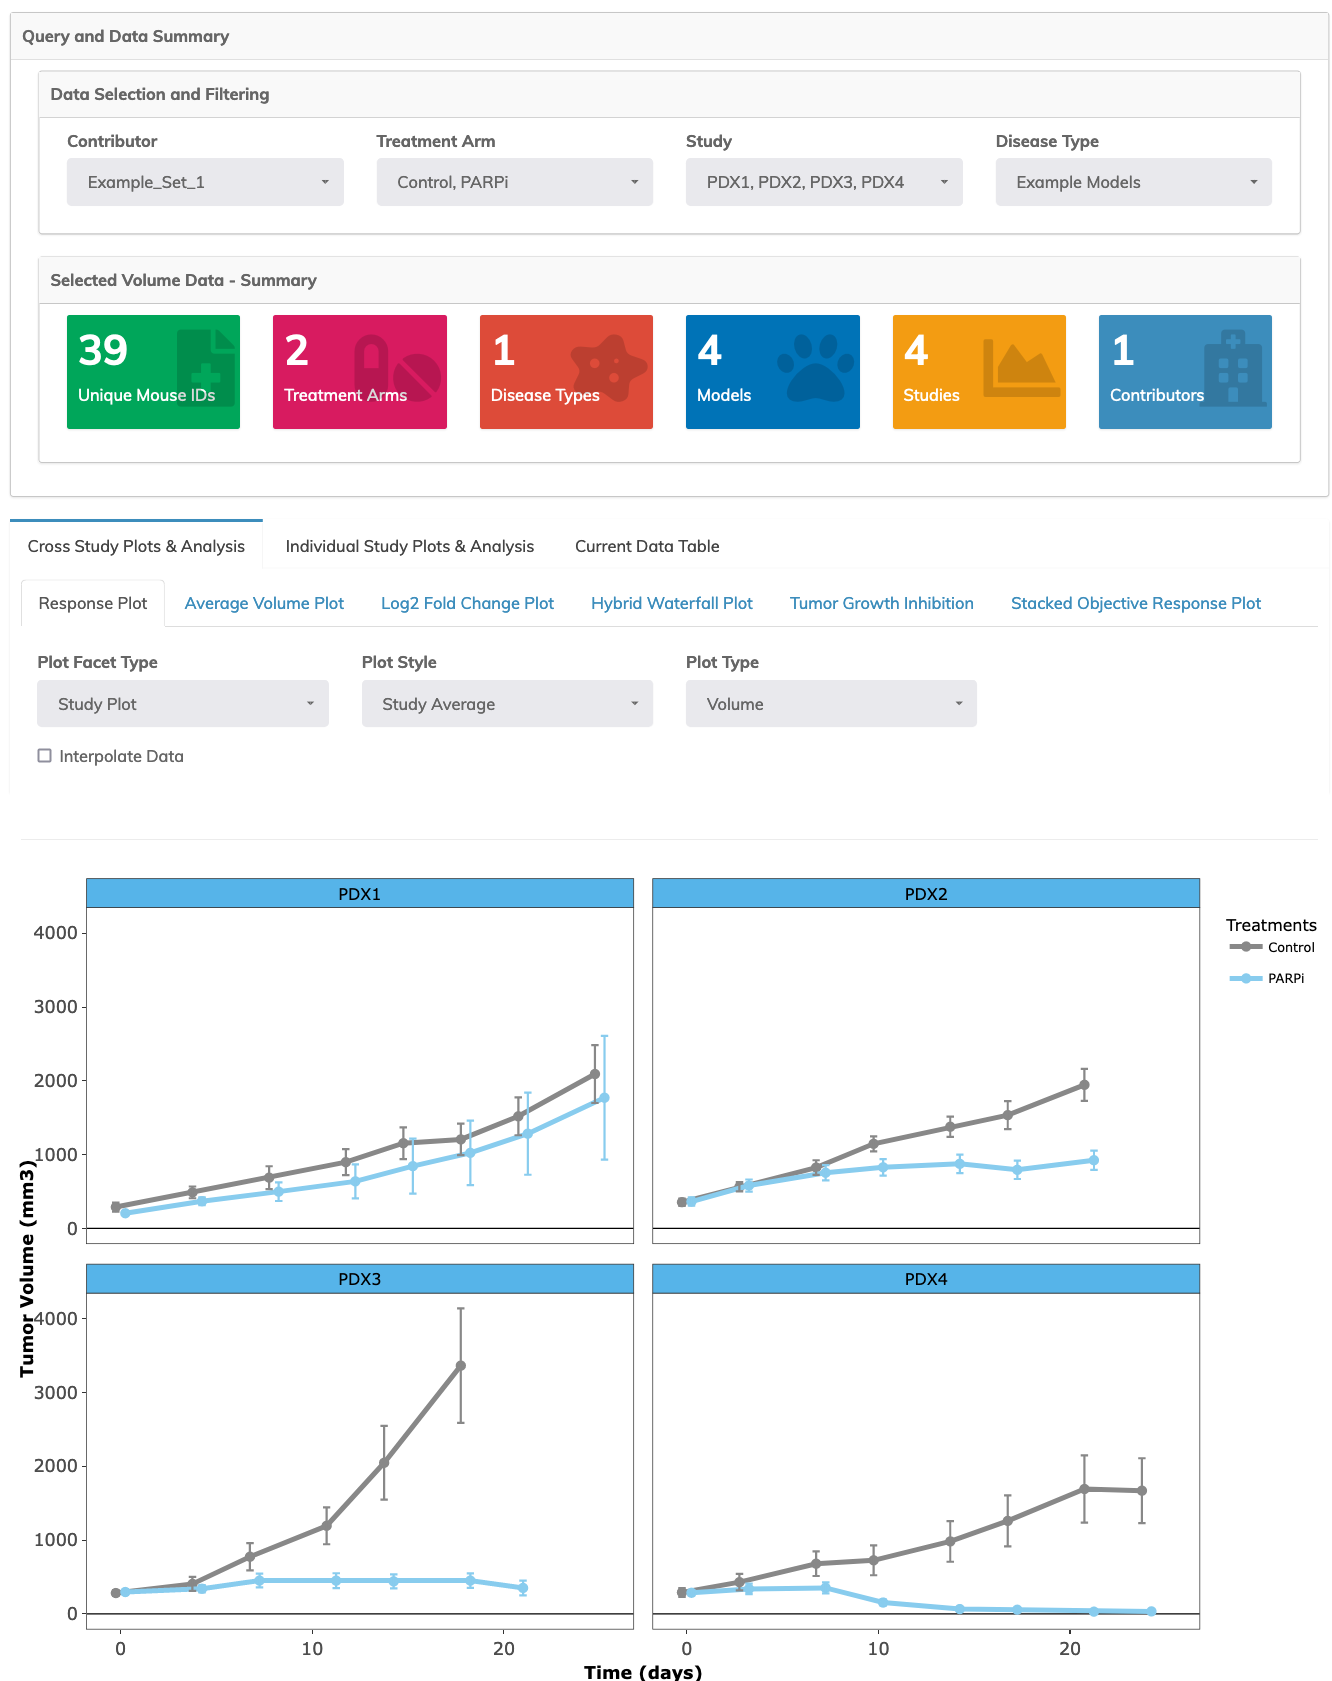
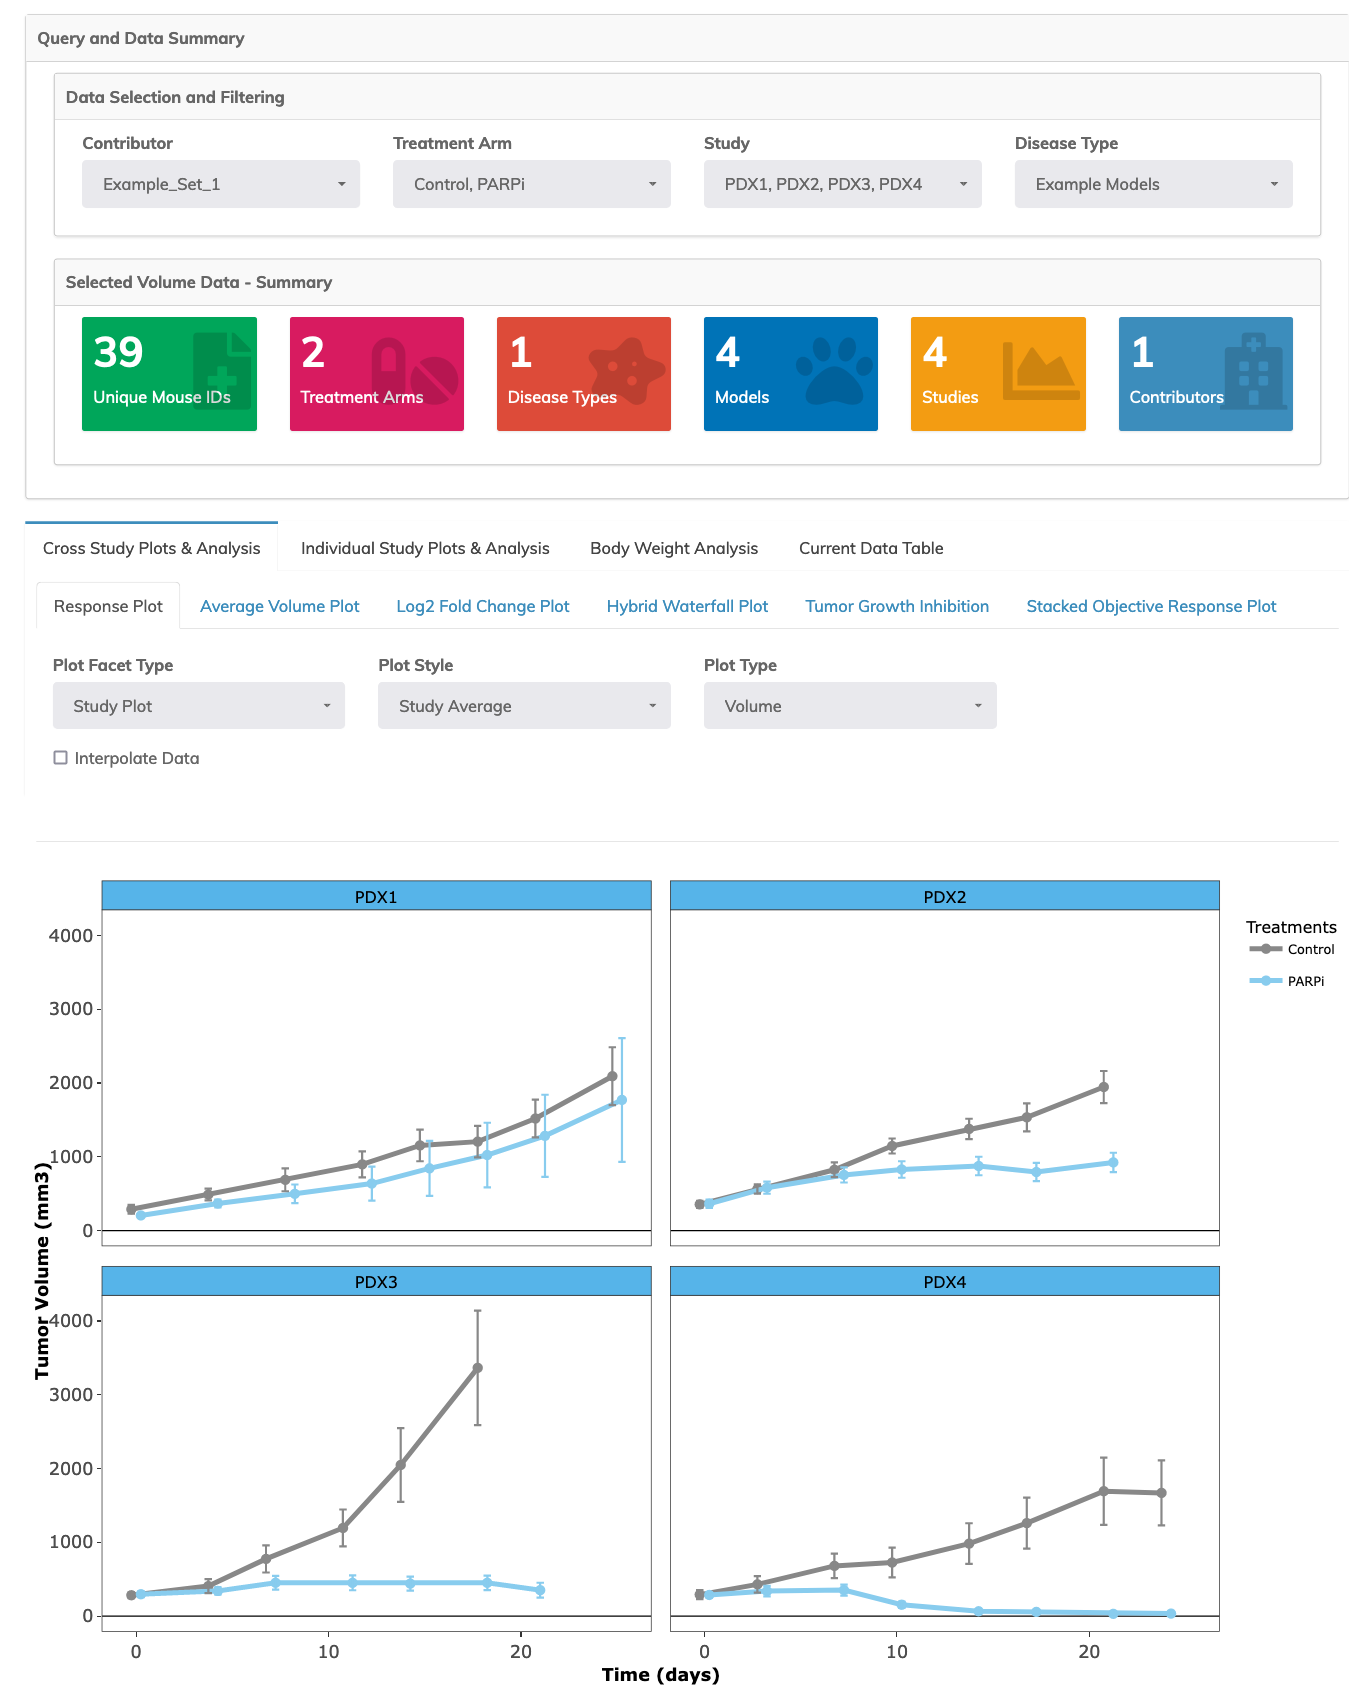
incremental help doc update

diff --git a/documentation/help.md b/documentation/help.md
@@ -60,6 +60,11 @@ The following columns with the **exact names** and **data types** are expected i
     
         A descriptor of the tumor type (e.g., Invasive breast carcinoma, Unknown, NA). 
         NOTE: This is a free text field, and is only used in the data filter query.
+    
+    9. 'Body_Weight': 
+
+        The measured body weights of the animals (e.g., 14.2, 14, 15.1). 
+        NOTE: This field is optional, if not provided the 'Body Weight Analysis' tab will be disabled.  
 
 
 ### Upload Validation Message: 
@@ -149,7 +154,7 @@ Below the data query and summary are three sub-tabs that allow users to access d
 
 ### 1. Cross Study Plots and Analysis
 
-There are six tabs that provide access to different visualizations and analysis metrics for cross study comparisons. 
+The user selects from six tabs that provide access to different visualizations and analysis metrics for cross study comparisons. 
 
 **NOTE:** Data filtering via 'Data Selection and Filtering' dropdowns can be used to select or deselect studies as needed.
 
@@ -263,7 +268,7 @@ This plot shows cross study mean log2 fold change [log2(Volume<sub>t</sub> / Vol
 <img src="images/15.tv_hybridWaterfall_plot.png" alt="" width="400"/>
 </p> 
 
-This plot shows cross study hybrid waterfall plot. Where model by treatment arm shows progression, T / C ratio +/- SE  is displayed in the plot. T/C is defined within study, tumor, and treatment arm roughly as:  
+This plot shows cross study hybrid waterfall plot. Where model by treatment arm shows progression, T / C ratio +/- SE  is displayed in the plot. T/C is defined within study, tumor, and treatment arm defined roughly as:  
 
 <p align="center">
 <img src="images/a.eq3.gif" alt="" width="175"/>
@@ -271,7 +276,8 @@ This plot shows cross study hybrid waterfall plot. Where model by treatment arm 
 
 For the specific formulation, see the 'Tumor Growth Inhibition' section that follows. 
 
-Where model by treatment arm shows regression, percent change in tumor volume (as defined above) +/- SE is shown. The calculation of these metrics is taken at the user defined time point (default "Waterfall Calc. Day" is 21). Data underlying this plot can be interpolated with the checkbox.  
+Where model by treatment arm shows regression, percent change in tumor volume (as defined above) +/- SE is shown. The calculation of these metrics is taken at the user defined time point (default "Waterfall Calc. Day" is 21). Data underlying this plot can be interpolated with the checkbox.
+  
 
 ---
 
@@ -281,9 +287,10 @@ Where model by treatment arm shows regression, percent change in tumor volume (a
 <img src="images/16.tv_TGI_plot.png" alt="" width="400"/>
 </p> 
 
-This plot and table shows cross study tumor growth inhibition defined as the T/C ratio. 
+This plot and table shows cross study tumor growth inhibition defined as the T/C ratio at the user defined time point (default "TGI Calc. Day" is 21). 
 
-To measure antitumor activity of the treatment group compared to the control group, we considered the tumor growth treatment-to-control ratio (gamma<sub>t</sub>) estimated by one way ANOVA focused on time *t* as described in Supplemental Materials 1 in (Evrard et al. 2020). 
+To measure antitumor activity of the treatment group compared to the control group, we considered the tumor growth treatment-to-control ratio (gamma<sub>t</sub>) estimated by one way ANOVA focused on time *t* as described in Supplemental Materials 1 in (Evrard et al. 2020). Data underlying this plot can be interpolated with the checkbox.  
+
  
 Briefly, after log transforming the change in tumor volume (as defined above), a linear model is fit:
 
@@ -299,9 +306,11 @@ If we define TGI as the ratio of mean tumor to mean control as in the equation s
 <img src="images/a.eq5.gif" alt="" width="175"/>
 </p>
 
-Where TGI < 1 indicates the degree of growth inhibition of the treatment relative to control. To test for the significance of anti-tumor activity of the treatment group at time *t*, we test the null hypothesis of no treatment effect by comparing
+Where TGI < 1 indicates the degree of growth inhibition of the treatment relative to control. To test for the significance of anti-tumor activity of the treatment group at time *t*, we test the null hypothesis of no treatment effect by comparing:
 
-H_0:β=0 (γ=1) vs. H_1: β<0 (γ<1).
+<p align="center">
+<img src="images/a.eq6.gif" alt="" width="175"/>
+</p>
 
     Evrard YA, Srivastava A, Randjelovic J, Doroshow JH, Dean DA 2nd, Morris JS, Chuang JH; NCI PDXNet Consortium. Systematic Establishment of Robustness and Standards in Patient-Derived Xenograft Experiments and Analysis. Cancer Res. 2020 Jun 1;80(11):2286-2297. doi: 10.1158/0008-5472.CAN-19-3101. Epub 2020 Mar 9. PMID: 32152150; PMCID: PMC7272270.
 
@@ -310,6 +319,20 @@ H_0:β=0 (γ=1) vs. H_1: β<0 (γ<1).
 ---
 
 #### 1f. Stacked Objective Response Plot
+
+<p align="center">
+<img src="images/17.tv_ORC_stacked_plot.png" alt="" width="400"/>
+</p> 
+
+
+This plot summarizes individual animal objective response criteria at the user defined time point (default "RECIST Calc. Day" is 21). Data underlying this plot can be interpolated with the checkbox.  
+
+The classification used mimics RECIST criteria commonly used in clinical trials for solid tumors to classify each patient as complete response (CR), partial response (PR), stable disease (SD), or progressive disease (PD). At a user defined time *t*, each animal was classified into one of these four categories based on their percent tumor volume change from baseline based on the following cut points: 
+
+1. CR : ∆TV<sub>t</sub> <= -95%
+2. PR : -95% < ∆TV<sub>t</sub> <= -30%
+3. SD : -30% < ∆TV<sub>t</sub> <= 20%
+4. PD : All other cases
 
 ---
 
@@ -323,9 +346,49 @@ H_0:β=0 (γ=1) vs. H_1: β<0 (γ<1).
 
 ### 2. Individual Study Plots & Analysis
 
-There is a study selection dropdown, and four tabs that provide access to different visualizations and analysis metrics for analysis of the selected individual study. 
+Users select the 'Study' of interest from the study selection dropdown. Four sub-tabs provide access to different visualizations and analysis metrics for analysis of the selected study. 
 
 <p align="center">
-<img src="images/999.tv_individual_study_options.png" alt="" width="700"/>
+<img src="images/18.tv_individual_study_options.png" alt="" width="700"/>
 </p>
+
+#### 2a. Objective Response (RECIST)
+
+<p align="center">
+<img src="images/19.tv_RECIST_plot_table.png" alt="" width="400"/>
+</p> 
+
+This plot and table summarize cohort level objective response criteria at the user defined time point (default "RECIST Calc. Day" is 21). Data underlying this plot can be interpolated with the checkbox.  
+
+The classification used mimics RECIST criteria commonly used in clinical trials for solid tumors to classify each patient as complete response (CR), partial response (PR), stable disease (SD), or progressive disease (PD). This classification differs from the above, in that a RECIST classification is applied to each treatment arm in the following way. 
+
+1. ∆TV for each animal is calculated at time *t*.
+2. Within each treatment arm, the minimum ∆TV is found as ∆TV<sub>m</sub>.
+3. Within each treatment arm, the mean ∆TV is computed across replicates as ∆TV<sub>a</sub>.
+3. RECIST category is then determined for each treatment arm as follows:  
+    1. CR : ∆TV<sub>m</sub> <= -95%, and  ∆TV<sub>a</sub> <= -40%
+    2. PR : ∆TV<sub>m</sub> <= -50%, and  ∆TV<sub>a</sub> <= -20%
+    3. SD : ∆TV<sub>m</sub> <=  35%, and  ∆TV<sub>a</sub> <=  30%
+    4. PD : All other cases
+
+
+#### 2b. Waterfall Plot
+
+<p align="center">
+<img src="images/20.tv_waterfall_plot.png" alt="" width="400"/>
+</p> 
+
+Waterfall plots can be shown for individual animals using one of three different metrics selected in the 'Waterfall Metric' dropdown. 
+
+For this measure, we computed the area under the tumor growth curve from baseline up to time t, normalized by dividing by t. With this normalization factor, the interpretation of this measure is the average percent change in tumor size from baseline to time. If there was no tumor measurement at time t but measurements at flanking measurements at time t_0 and t_1 such that t_0<t<t_(1 ), then we used linear interpolation to estimate the tumor volume at t.
+
+
+#### 2c. Event Free Surivial
+
+#### 2d. ANOVA
+
+
+
+### 3. Body Weight Analysis
+
 
